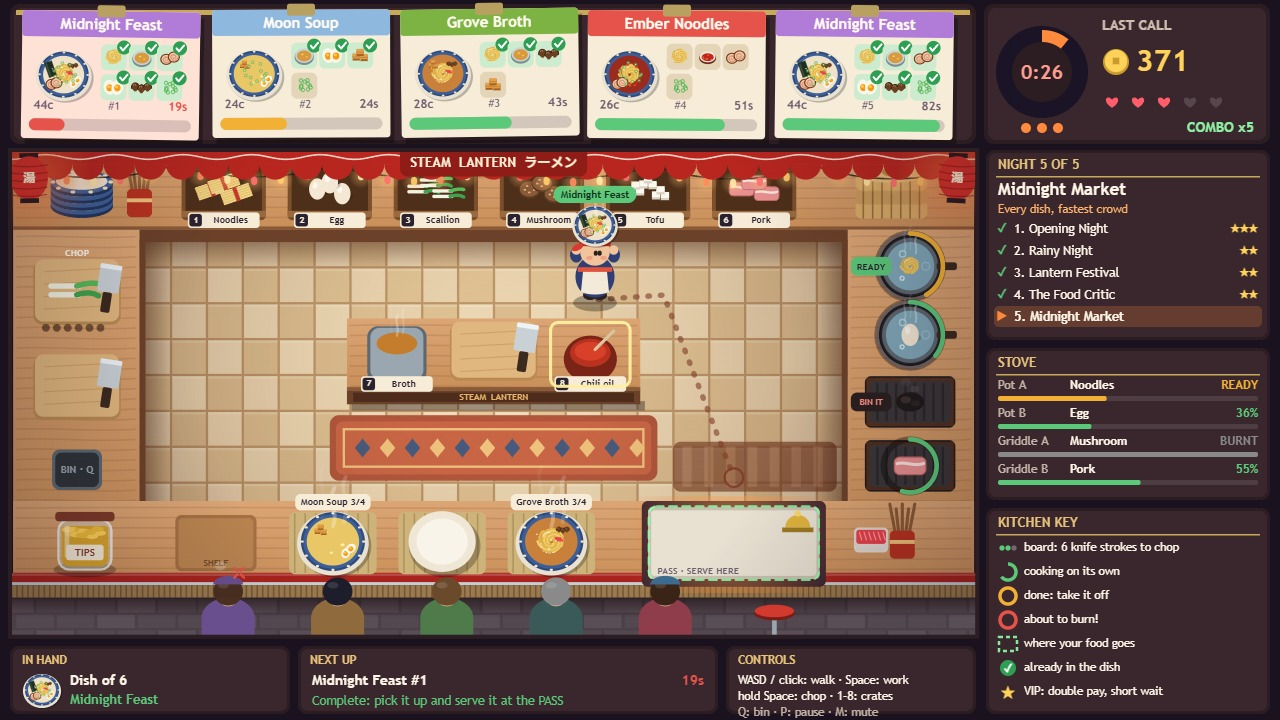
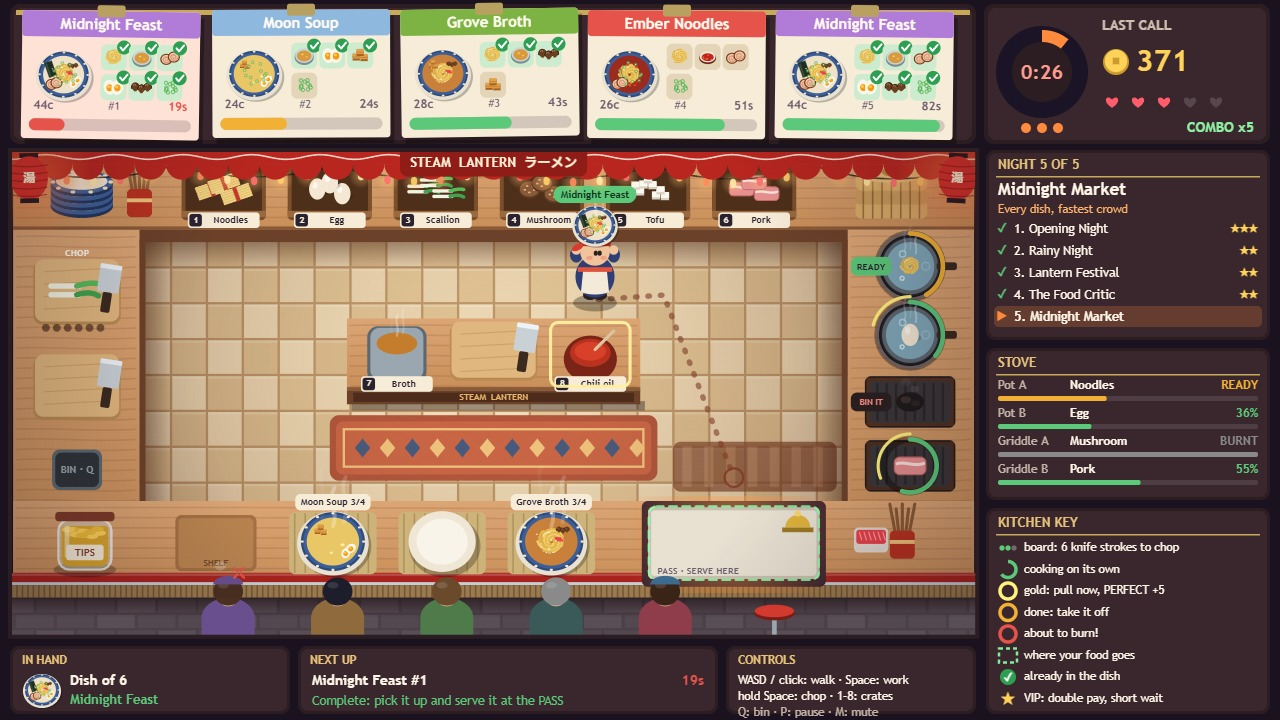
PERFECT pulls: a gold timing window on pots and griddles pays a bonus; bigger serve, combo and critic moments

Changed region(s): [[0.7812, 0.7639, 0.9062, 0.9778], [0.6875, 0.3972, 0.7188, 0.4278]]

diff --git a/game/src/render/effects.js b/game/src/render/effects.js
@@ -35,8 +35,8 @@ function burst(fx, x, y, count, colours, speed, gravity, life, size) {
 }
 
 /** Floating words; `screen` ones (by the order board) are drawn outside the kitchen view. */
-function floater(fx, x, y, words, colour, size = 20, screen = false) {
-  fx.floaters.push({ x, y, words, colour, size, age: 0, screen });
+function floater(fx, x, y, words, colour, size = 20, screen = false, life = 1.1) {
+  fx.floaters.push({ x, y, words, colour, size, age: 0, screen, life });
 }
 
 /** Turn this step's world events into effects; `orders` places ticket-side effects. */
@@ -65,6 +65,11 @@ export function applyEvents(fx, events, orders) {
       case 'sizzle':
         burst(fx, e.x, e.y, 12, ['#ffd27a', '#ff8a3d', '#fff2b0'], 160, 200, 0.4, 3);
         break;
+      case 'perfect':
+        floater(fx, e.x, e.y - 64, `PERFECT! +${e.bonus}`, PALETTE.perfect, 30, false, 1.5);
+        burst(fx, e.x, e.y - 10, 26, [PALETTE.perfect, '#ffffff', PALETTE.coin], 300, 260, 0.8, 4.5);
+        fx.coinPulse = 1;
+        break;
       case 'cooked':
         floater(fx, e.x, e.y - 50, 'Done!', '#9df0b0', 18);
         break;
@@ -80,11 +85,13 @@ export function applyEvents(fx, events, orders) {
         floater(fx, e.x, e.y - 50, e.text, '#ffc4b8', 15);
         break;
       case 'serve': {
-        floater(fx, e.x, e.y - 60, `+${e.earned}`, PALETTE.coin, 30);
-        if (e.tip > 0) floater(fx, e.x + 70, e.y - 30, `tip ${e.tip}`, '#ffe9a8', 15);
-        if (e.combo > 1) floater(fx, e.x - 70, e.y - 30, `combo x${e.combo}`, '#8ff0a4', 17);
-        if (e.vip) floater(fx, e.x, e.y - 100, '★ VIP double pay!', PALETTE.coin, 20);
-        burst(fx, e.x, e.y - 10, 22, [PALETTE.coin, '#fff2b0', '#ffb547'], 260, 500, 0.8, 5);
+        // The big moment: the coins large over the pass, the combo and tip beside them.
+        floater(fx, e.x, e.y - 70, `+${e.earned}`, PALETTE.coin, 46, false, 1.6);
+        if (e.tip > 0) floater(fx, e.x + 96, e.y - 34, `tip +${e.tip}`, '#ffe9a8', 20, false, 1.4);
+        if (e.combo > 1) floater(fx, e.x - 100, e.y - 34, `COMBO x${e.combo}!`, '#8ff0a4', e.combo >= 3 ? 26 : 21, false, 1.4);
+        if (e.vip) floater(fx, e.x, e.y - 124, '★ CRITIC SERVED · DOUBLE PAY!', PALETTE.coin, 26, false, 1.6);
+        burst(fx, e.x, e.y - 10, 34 + 6 * e.combo, [PALETTE.coin, '#fff2b0', '#ffb547'], 300, 500, 0.9, 5.5);
+        if (e.combo >= 3) fx.shake = Math.max(fx.shake, 0.15);
         fx.coinPulse = 1;
         fx.passDisplay.push({ contents: e.contents, age: 0 });
         if (fx.passDisplay.length > 3) fx.passDisplay.shift();
@@ -119,7 +126,7 @@ export function updateEffects(fx, dt) {
   }
   fx.particles = fx.particles.filter((p) => p.age < p.life);
   for (const f of fx.floaters) f.age += dt;
-  fx.floaters = fx.floaters.filter((f) => f.age < 1.1);
+  fx.floaters = fx.floaters.filter((f) => f.age < f.life);
   for (const id of Object.keys(fx.knives)) {
     fx.knives[id] += dt * 7;
     if (fx.knives[id] >= 1) delete fx.knives[id];
@@ -150,10 +157,12 @@ export function drawFloaters(ctx, fx, screen) {
   ctx.textBaseline = 'middle';
   for (const f of fx.floaters) {
     if (f.screen !== screen) continue;
-    const t = f.age / 1.1;
+    const t = f.age / f.life;
     ctx.globalAlpha = 1 - t * t;
-    ctx.font = `bold ${f.size}px ${FONT}`;
-    ctx.lineWidth = 4;
+    // Big words pop in: a quick overshoot in their first tenth of a second.
+    const pop = f.size >= 26 ? 1 + 0.35 * Math.max(0, 1 - f.age / 0.12) : 1;
+    ctx.font = `bold ${Math.round(f.size * pop)}px ${FONT}`;
+    ctx.lineWidth = f.size >= 26 ? 6 : 4;
     ctx.strokeStyle = 'rgba(30,15,30,0.8)';
     ctx.strokeText(f.words, f.x, f.y - t * 40);
     ctx.fillStyle = f.colour;

diff --git a/game/src/kitchen.js b/game/src/kitchen.js
@@ -2,7 +2,7 @@
 // the griddle keep cooking on their own (so a good route starts the slow things first) and ruin
 // food left too long; boards only chop while the chef chops. Every rule reports an event the
 // renderer and the sound answer at once.
-import { COOK } from './config.js';
+import { COOK, SCORE } from './config.js';
 import { createItem, INGREDIENTS, isReady, nextStep, STEP_BOIL, STEP_CHOP, STEP_SEAR } from './recipes.js';
 import { ASSEMBLY, BIN, BOARD, CRATE, GRIDDLE, PASS, POT, SHELF } from './stations.js';
 
@@ -40,6 +40,19 @@ function addToDish(world, contents, item, s) {
 
 function cookerStep(s) {
   return s.type === POT ? STEP_BOIL : STEP_SEAR;
+}
+
+/** Food just done and still within the PERFECT window (the gold arc on the ring). */
+function inPerfectWindow(s) {
+  const item = s.item;
+  return item !== null && !item.burnt && nextStep(item) !== cookerStep(s) && item.progress <= COOK.perfect;
+}
+
+/** A PERFECT pull: a few coins and a count for the results card. */
+function payPerfect(world, s) {
+  world.shift.coins += SCORE.perfectBonus;
+  world.shift.perfects += 1;
+  event(world, 'perfect', s, { bonus: SCORE.perfectBonus });
 }
 
 /**
@@ -99,11 +112,17 @@ export function interact(world, s) {
         chef.held = null;
         event(world, s.type === POT ? 'splash' : 'sizzle', s, { kind: s.item.kind });
       } else if (held === null && s.item !== null) {
+        const perfect = inPerfectWindow(s);
         chef.held = s.item;
         s.item = null;
         event(world, 'pickup', s, { kind: chef.held.kind });
+        if (perfect) payPerfect(world, s);
       } else if (isDish(held) && s.item !== null && isReady(s.item)) {
-        if (addToDish(world, held.contents, s.item, s)) s.item = null;
+        const perfect = inPerfectWindow(s);
+        if (addToDish(world, held.contents, s.item, s)) {
+          s.item = null;
+          if (perfect) payPerfect(world, s);
+        }
       } else if (held !== null) {
         event(world, 'refuse', s, { text: 'Burner is busy' });
       }
@@ -204,14 +223,15 @@ export function updateCookers(world, stations, dt) {
   }
 }
 
-/** 0..1 for a station's visible progress ring, and whether it is in its warning window. */
+/** 0..1 for a station's ring; whether it is in its PERFECT window (and that window's share) or warning window. */
 export function cookerGauge(s) {
   const item = s.item;
-  if (item === null || item.burnt) return { cooking: 0, overdone: 0, warn: false };
+  if (item === null || item.burnt) return { cooking: 0, overdone: 0, warn: false, perfect: false, share: 0 };
   const step = cookerStep(s);
   const grace = s.type === POT ? COOK.boilGrace : COOK.searGrace;
-  if (nextStep(item) === step) return { cooking: item.progress / INGREDIENTS[item.kind].times[step], overdone: 0, warn: false };
-  return { cooking: 1, overdone: item.progress / grace, warn: grace - item.progress <= COOK.warnAt };
+  const share = COOK.perfect / grace;
+  if (nextStep(item) === step) return { cooking: item.progress / INGREDIENTS[item.kind].times[step], overdone: 0, warn: false, perfect: false, share };
+  return { cooking: 1, overdone: item.progress / grace, warn: grace - item.progress <= COOK.warnAt, perfect: item.progress <= COOK.perfect, share };
 }
 
 export { isDish };

diff --git a/game/src/render/sidebar-view.js b/game/src/render/sidebar-view.js
@@ -1,6 +1,6 @@
 // The sidebar beside the kitchen: tonight's place in the five-night campaign, the live state of
 // every burner, and a key to what the kitchen's marks mean, so the stall explains itself.
-import { COOK, FONT, PALETTE } from '../config.js';
+import { COOK, FONT, PALETTE, SCORE } from '../config.js';
 import { NIGHTS, twistLine } from '../nights.js';
 import { stoveRows } from '../hints.js';
 import { drawIngredientIcon } from './food-art.js';
@@ -57,6 +57,7 @@ function drawNights(ctx, shift, progress) {
 
 const STATE_STYLE = {
   cooking: { colour: PALETTE.good, word: (r) => `${Math.round(r.fraction * 100)}%` },
+  perfect: { colour: PALETTE.perfect, word: () => 'PERFECT!' },
   ready: { colour: PALETTE.warn, word: () => 'READY' },
   hot: { colour: PALETTE.bad, word: () => 'HOT!' },
   burnt: { colour: '#8a8a8a', word: () => 'BURNT' },
@@ -79,10 +80,10 @@ function drawStove(ctx, world, time) {
 }
 
 function keyIcon(ctx, kind, x, y) {
-  if (kind === 'ring' || kind === 'amber' || kind === 'red') {
+  if (kind === 'ring' || kind === 'gold' || kind === 'amber' || kind === 'red') {
     ctx.beginPath();
     ctx.arc(x, y, 8, -Math.PI / 2, kind === 'ring' ? Math.PI * 0.8 : Math.PI * 1.5);
-    ctx.strokeStyle = kind === 'ring' ? PALETTE.good : kind === 'amber' ? PALETTE.warn : PALETTE.bad;
+    ctx.strokeStyle = { ring: PALETTE.good, gold: PALETTE.perfect, amber: PALETTE.warn, red: PALETTE.bad }[kind];
     ctx.lineWidth = 3.5;
     ctx.stroke();
   } else if (kind === 'dash') {
@@ -116,6 +117,7 @@ function drawKey(ctx) {
   const rows = [
     ['pips', `board: ${COOK.chopStrokes} knife strokes to chop`],
     ['ring', 'cooking on its own'],
+    ['gold', `gold: pull now, PERFECT +${SCORE.perfectBonus}`],
     ['amber', 'done: take it off'],
     ['red', 'about to burn!'],
     ['dash', 'where your food goes'],
@@ -125,7 +127,7 @@ function drawKey(ctx) {
   for (const [kind, words] of rows) {
     keyIcon(ctx, kind, x + 22, y + 6);
     text(ctx, words, x + 38, y + 6, 11.5, PALETTE.text, 'left', 'normal');
-    y += 24;
+    y += 21.5;
   }
 }
 

diff --git a/game/src/shots.js b/game/src/shots.js
@@ -77,8 +77,8 @@ function ticket(world, id, fraction, vip = false) {
   return t;
 }
 
-function setNight(world, time, { coins, served, missed, combo, bestCombo, vipServed = 0 }) {
-  Object.assign(world.shift, { time, coins, served, missed, combo, bestCombo, vipServed, hearts: 5 - missed, nextTicket: 999 });
+function setNight(world, time, { coins, served, missed, combo, bestCombo, vipServed = 0, perfects = 0 }) {
+  Object.assign(world.shift, { time, coins, served, missed, combo, bestCombo, vipServed, perfects, hearts: 5 - missed, nextTicket: 999 });
   world.shift.lastPhase = phaseIndex(world.shift);
 }
 
@@ -101,7 +101,7 @@ function stageService(world, fx) {
   startCooking(world, 'noodles', 'pot-a', 3.6);
   startCooking(world, 'egg', 'pot-b', 8);
   startCooking(world, 'pork', 'griddle-a', 2.4);
-  startCooking(world, 'tofu', 'griddle-b', 4.8);
+  startCooking(world, 'tofu', 'griddle-b', 8.2);
   // The chef at the island board, mid-way through the scallions for the Lantern Ramen.
   work(world, 'crate-scallion');
   const board = work(world, 'board-c');
@@ -110,7 +110,7 @@ function stageService(world, fx) {
   world.chef.walk = 0.6;
   // A Lantern Ramen just went out through the pass.
   world.events.length = 0;
-  setNight(world, 118, { coins: 236, served: 8, missed: 1, combo: 3, bestCombo: 4, vipServed: 1 });
+  setNight(world, 118, { coins: 236, served: 8, missed: 1, combo: 3, bestCombo: 4, vipServed: 1, perfects: 5 });
   ticket(world, 'lantern', 0.34);
   ticket(world, 'ember', 0.52, true);
   ticket(world, 'grove', 0.74);
@@ -164,7 +164,7 @@ function stageLastCall(world, fx) {
 /** The end of the Lantern Festival: a strong two-star night that opens the critic's night. */
 function stageResults(world) {
   world.reset(3);
-  setNight(world, 240, { coins: 318, served: 12, missed: 1, combo: 0, bestCombo: 4 });
+  setNight(world, 240, { coins: 318, served: 12, missed: 1, combo: 0, bestCombo: 4, perfects: 9 });
   world.shift.over = true;
   const served = [
     ['noodles', 'broth', 'egg', 'scallion'],

diff --git a/game/src/render/kitchen-view.js b/game/src/render/kitchen-view.js
@@ -348,13 +348,32 @@ function drawCooker(ctx, s, time) {
   }
   if (s.item !== null && !s.item.burnt) {
     const r = s.type === POT ? 42 : 34;
-    if (gauge.overdone > 0) {
+    if (gauge.perfect) {
+      // The PERFECT window: a glowing gold ring and tag; take it off now for the bonus.
+      const pulse = 0.5 + 0.5 * Math.sin(time * 12);
+      ctx.save();
+      ctx.shadowColor = PALETTE.perfect;
+      ctx.shadowBlur = 10 + 10 * pulse;
+      drawProgressRing(ctx, s.cx, s.cy, r, 1 - gauge.overdone, PALETTE.perfect, 8);
+      ctx.restore();
+      roundRect(ctx, s.x - 34, s.cy - 13, 76, 26, 9, PALETTE.perfect);
+      label(ctx, 'PERFECT!', s.x + 4, s.cy + 1, 13, '#4a2a00');
+    } else if (gauge.overdone > 0) {
       const flash = gauge.warn && Math.floor(time * 6) % 2 === 0;
       drawProgressRing(ctx, s.cx, s.cy, r, 1 - gauge.overdone, flash ? PALETTE.bad : PALETTE.warn);
       // A tag on the counter beside the burner: ready to take, or about to burn.
       roundRect(ctx, s.x - 10, s.cy - 12, 52, 24, 8, gauge.warn ? (flash ? PALETTE.bad : '#8a1f1a') : PALETTE.good);
       label(ctx, gauge.warn ? 'HOT!' : 'READY', s.x + 16, s.cy + 1, 12, gauge.warn ? '#fff' : PALETTE.ink);
-    } else drawProgressRing(ctx, s.cx, s.cy, r, gauge.cooking, PALETTE.good);
+    } else {
+      drawProgressRing(ctx, s.cx, s.cy, r, gauge.cooking, PALETTE.good);
+      // The gold zone at the ring's end: when the ring is full, that is the moment to pull it.
+      ctx.beginPath();
+      ctx.arc(s.cx, s.cy, r + 7, -Math.PI / 2 - TAU * gauge.share, -Math.PI / 2);
+      ctx.strokeStyle = PALETTE.perfect;
+      ctx.lineWidth = 4;
+      ctx.lineCap = 'round';
+      ctx.stroke();
+    }
   } else if (s.item !== null && s.item.burnt) {
     roundRect(ctx, s.x - 10, s.cy - 12, 52, 24, 8, '#2b2020');
     label(ctx, 'BIN IT', s.x + 16, s.cy + 1, 11, '#ff8f84');

diff --git a/game/src/render/screens-view.js b/game/src/render/screens-view.js
@@ -1,6 +1,6 @@
 // The screens over the kitchen: the title sign with tonight's menu and the five-night picker, the
 // pause card, and the end-of-night results with their stars and what the night unlocked.
-import { FONT, PALETTE } from '../config.js';
+import { FONT, PALETTE, SCORE } from '../config.js';
 import { NIGHTS, twistLine } from '../nights.js';
 import { RECIPES } from '../recipes.js';
 import { starsFor } from '../shift.js';
@@ -190,12 +190,13 @@ export function drawResults(ctx, shift, time, servedDishes, ready, outcome) {
     ['Dishes served', shift.vipServed > 0 ? `${shift.served} (${shift.vipServed} VIP)` : String(shift.served)],
     ['Customers lost', String(shift.missed)],
     ['Best combo', shift.bestCombo > 1 ? `x${shift.bestCombo}` : '–'],
+    ['PERFECT pulls', shift.perfects > 0 ? `${shift.perfects} (+${shift.perfects * SCORE.perfectBonus} coins)` : '–'],
     [`Best on this night`, `${Math.max(outcome?.best ?? 0, shift.coins)} coins`],
   ];
   rows.forEach(([name, value], i) => {
-    const y = 348 + i * 32;
+    const y = 344 + i * 26;
     ctx.fillStyle = i % 2 ? 'rgba(43,34,48,0.05)' : 'rgba(43,34,48,0.1)';
-    ctx.fillRect(380, y - 14, 520, 28);
+    ctx.fillRect(380, y - 12, 520, 24);
     text(ctx, name, 396, y, 17, PALETTE.ink, 'left', 'normal');
     text(ctx, value, 884, y, 17, PALETTE.ink, 'right');
   });

diff --git a/game/src/hints.js b/game/src/hints.js
@@ -75,7 +75,7 @@ export function nextUp(world) {
   return { ticket: urgent, missing: urgent.recipe.items.filter((kind) => !have.includes(kind)) };
 }
 
-/** One row per burner for the sidebar: { name, food, state, fraction } with state cooking/ready/hot/burnt/empty. */
+/** One row per burner for the sidebar: { name, food, state, fraction } with state cooking/perfect/ready/hot/burnt/empty. */
 export function stoveRows(world) {
   const names = { 'pot-a': 'Pot A', 'pot-b': 'Pot B', 'griddle-a': 'Griddle A', 'griddle-b': 'Griddle B' };
   return Object.keys(names).map((id) => {
@@ -84,6 +84,7 @@ export function stoveRows(world) {
     const food = INGREDIENTS[s.item.kind].name;
     if (s.item.burnt) return { name: names[id], food, state: 'burnt', fraction: 1 };
     const gauge = cookerGauge(s);
+    if (gauge.perfect) return { name: names[id], food, state: 'perfect', fraction: 1 - gauge.overdone };
     if (gauge.overdone > 0) return { name: names[id], food, state: gauge.warn ? 'hot' : 'ready', fraction: 1 - gauge.overdone };
     return { name: names[id], food, state: 'cooking', fraction: gauge.cooking };
   });

diff --git a/game/src/config.js b/game/src/config.js
@@ -38,6 +38,8 @@ export const COOK = {
   searGrace: 8,
   /** The last seconds of grace flash a warning. */
   warnAt: 3.5,
+  /** Take food off within this many seconds of done for a PERFECT pull. */
+  perfect: 2.5,
 };
 
 export const SCORE = {
@@ -46,6 +48,8 @@ export const SCORE = {
   /** Extra coins per combo level (serves in a row with half the patience or more left). */
   comboBonus: 4,
   comboCap: 6,
+  /** Coins for each PERFECT pull off a pot or the griddle. */
+  perfectBonus: 5,
 };
 
 export const PALETTE = {
@@ -71,6 +75,7 @@ export const PALETTE = {
   inkSoft: '#6d5d6e',
   good: '#5cc87a',
   warn: '#f2b134',
+  perfect: '#fff27a',
   bad: '#e5534b',
   coin: '#ffd25a',
   text: '#fff6e8',

diff --git a/game/src/audio.js b/game/src/audio.js
@@ -96,6 +96,11 @@ export function createAudio() {
       tone(1046, t, 0.15, { gain: 0.14 });
       tone(1568, t + 0.08, 0.2, { gain: 0.1 });
     },
+    perfect() {
+      // A rising three-note sparkle for a PERFECT pull.
+      const t = ctx.currentTime;
+      [1318, 1661, 2093].forEach((f, i) => tone(f, t + i * 0.06, 0.18, { type: 'triangle', gain: 0.12 }));
+    },
     burnt() {
       const t = ctx.currentTime;
       tone(140, t, 0.4, { type: 'sawtooth', gain: 0.12, bend: 0.5 });

diff --git a/game/src/main.js b/game/src/main.js
@@ -35,6 +35,7 @@ const SOUND_FOR = {
   splash: (a) => a.play('splash'),
   sizzle: (a) => a.play('sizzle'),
   cooked: (a) => a.play('cooked'),
+  perfect: (a) => a.play('perfect'),
   burnt: (a) => a.play('burnt'),
   serve: (a, e) => {
     a.play('serve', e.combo);

diff --git a/game/src/shift.js b/game/src/shift.js
@@ -25,6 +25,7 @@ export function createShift(nightId = 3) {
     bestCombo: 0,
     served: 0,
     vipServed: 0,
+    perfects: 0,
     missed: 0,
     over: false,
     closedEarly: false,

diff --git a/README.md b/README.md
@@ -8,7 +8,7 @@
 
 ![Steam Lantern in the Night Rush](screenshots/1-service.jpg)
 
-Tickets clip onto the order board, and each one is a dish with a patience bar. Take ingredients from the crates, chop them on a board, boil them in a pot or sear them on the griddle, then build the dish on a serving mat. Carry it to the pass before the customer walks out. Pots and the griddle keep cooking while you work elsewhere, so a good route starts the slow things first. Leave food on the heat too long and it burns.
+Tickets clip onto the order board, and each one is a dish with a patience bar. Take ingredients from the crates, chop them on a board, boil them in a pot or sear them on the griddle, then build the dish on a serving mat. Carry it to the pass before the customer walks out. Pots and the griddle keep cooking while you work elsewhere, so a good route starts the slow things first. Pull it off in the first moments after it is done, while the ring glows gold, for a PERFECT bonus. Leave food on the heat too long and it burns.
 
 - **A five-night campaign**, each night with its own menu, pace and twist. Earn a star to open the next night:
   1. Opening Night
